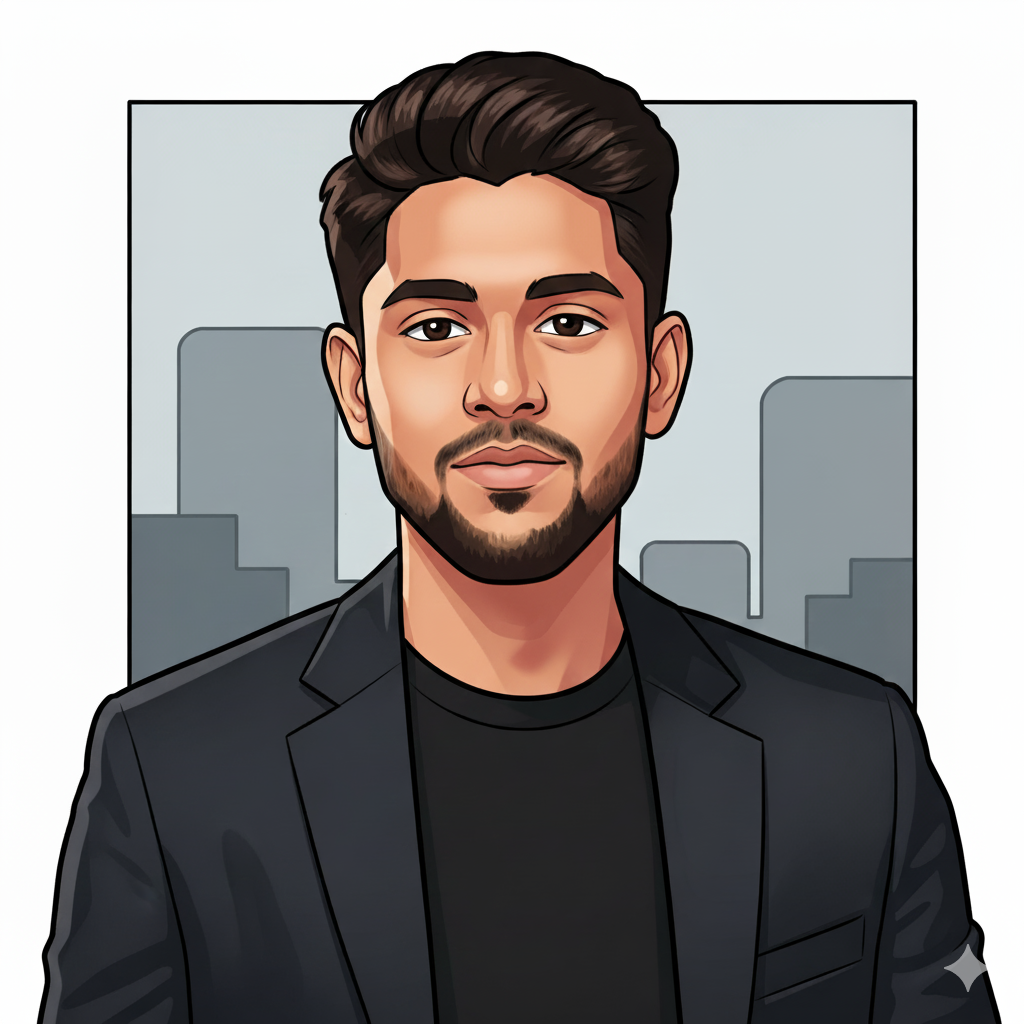
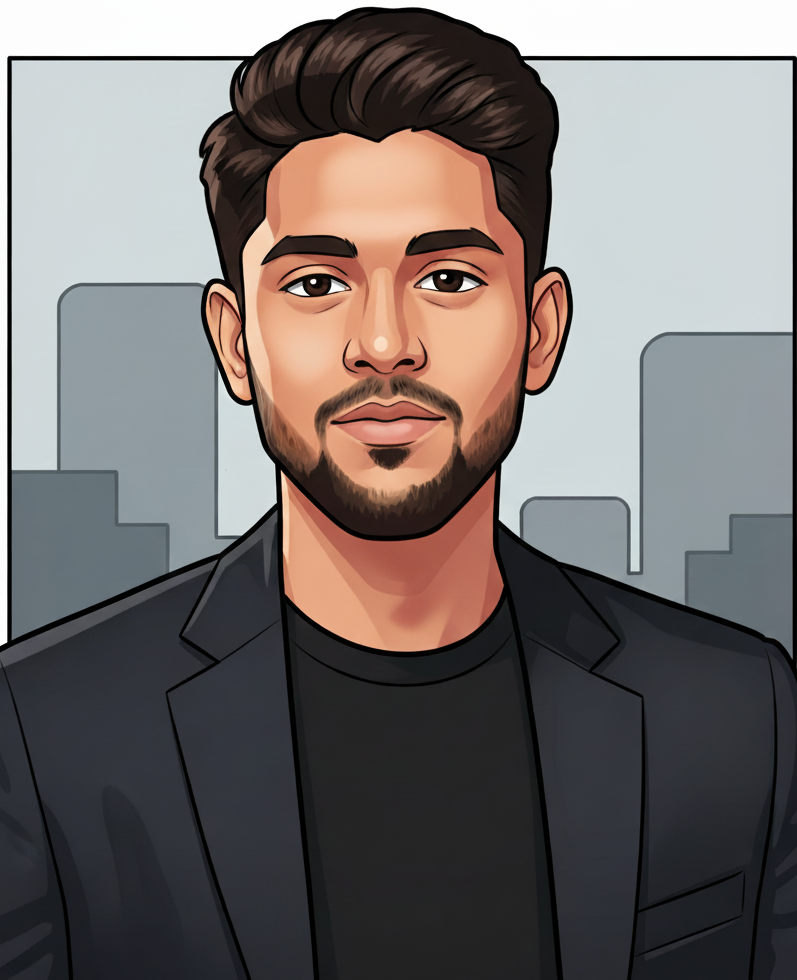
Fix About overflow, portrait arch, hero arc, visuals and content
- About: clip the giant ENGINEER word in an overflow-hidden, column-
  width container so it never causes horizontal overflow; size it to
  fit behind the portrait at every width. Verified scrollWidth == width
  at 360/390/768/1440 via CDP (no overflow).
- Add overflow-x: clip on html and body as a safety net.
- Portrait: crop the baked-in white frame, apply the arch shape
  (999px 999px 32px 32px) over a violet-to-transparent gradient.
- Hero: rebuild the glowing arc as a bright white-violet rim ellipse
  with a violet bloom, rising behind the AgentConsole which overlaps
  its lower edge.
- EchoShield: crop the white frame; render the image fill-cropped on
  the dark glass tile.
- More projects: render a graph ProjectVisual thumbnail when a card has
  no image (CRM Agent), so all cards match.
- Now learning: add detail lines for AMD HIP / ROCm and Modern C++.
- Skills: real logos for SQL (PostgreSQL), FAISS (Meta), QLoRA
  (Hugging Face), plus meaningful icons for XGBoost and ChromaDB.
- Footer: use the LinkedIn brand mark (react-icons/fa6, since
  simple-icons dropped LinkedIn).
- Work H2: wider max-width + text-balance so 'up.' no longer orphans.
- Reduce section padding (72px desktop / 56px mobile) to tighten the
  oversized inter-section gaps.
- content/site.ts: delete the QB1, Voice_Agent and Computer_use
  entries entirely (product.md rule 8); keep Market Signals hidden.

diff --git a/components/sections/Hero.tsx b/components/sections/Hero.tsx
@@ -111,33 +111,48 @@ export function Hero({ hasResume }: { hasResume: boolean }) {
         </motion.div>
 
         {/* glowing arc + console */}
-        <div className="relative mt-16 md:mt-20">
-          {/* arc */}
-          <div aria-hidden="true" className="pointer-events-none absolute inset-x-0 -top-10 flex justify-center">
-            <div className="relative h-[320px] w-[760px] max-w-[94vw]">
+        <div className="relative mt-24 md:mt-32">
+          {/* glowing arc: rises behind the console, which overlaps its lower edge */}
+          <div
+            aria-hidden="true"
+            className="pointer-events-none absolute inset-x-0 bottom-0 top-[-180px] flex items-start justify-center overflow-hidden md:top-[-240px]"
+          >
+            <div className="relative h-[460px] w-[900px] max-w-[150vw]">
+              {/* soft ambient bloom */}
               <div
-                className="absolute inset-0 rounded-[999px] blur-[60px]"
+                className="absolute inset-x-0 top-0 h-[360px] blur-[70px]"
                 style={{
                   background:
-                    "radial-gradient(60% 70% at 50% 100%, rgba(138,114,255,0.35), transparent 70%)",
+                    "radial-gradient(50% 60% at 50% 55%, rgba(138,114,255,0.5), transparent 72%)",
                 }}
               />
+              {/* filled half-ellipse body */}
               <div
-                className="absolute bottom-0 left-1/2 h-[260px] w-[680px] max-w-[92vw] -translate-x-1/2 rounded-t-[999px] border-t border-[rgba(220,210,255,0.4)]"
+                className="absolute left-1/2 top-0 h-[460px] w-[760px] max-w-[128vw] -translate-x-1/2 rounded-[999px]"
                 style={{
                   background:
-                    "conic-gradient(from 180deg at 50% 100%, rgba(220,210,255,0.08), rgba(124,92,255,0.14), rgba(220,210,255,0.08))",
-                  maskImage:
-                    "radial-gradient(60% 100% at 50% 100%, black, transparent 72%)",
-                  WebkitMaskImage:
-                    "radial-gradient(60% 100% at 50% 100%, black, transparent 72%)",
+                    "radial-gradient(50% 50% at 50% 50%, rgba(124,92,255,0.30), rgba(84,34,196,0.10) 60%, transparent 72%)",
+                }}
+              />
+              {/* bright white-violet rim */}
+              <div
+                className="absolute left-1/2 top-0 h-[460px] w-[760px] max-w-[128vw] -translate-x-1/2 rounded-[999px]"
+                style={{
+                  padding: "1.5px",
+                  background:
+                    "conic-gradient(from 180deg at 50% 50%, rgba(220,210,255,0) 0deg, rgba(246,207,255,0.9) 120deg, rgba(188,211,255,0.9) 240deg, rgba(220,210,255,0) 360deg)",
+                  WebkitMask:
+                    "linear-gradient(#000 0 0) content-box, linear-gradient(#000 0 0)",
+                  WebkitMaskComposite: "xor",
+                  maskComposite: "exclude",
+                  filter: "blur(0.3px)",
                 }}
               />
             </div>
           </div>
 
           <motion.div
-            className="relative"
+            className="relative z-10"
             initial={reduce ? undefined : { opacity: 0, y: 30 }}
             animate={reduce ? undefined : { opacity: 1, y: 0 }}
             transition={{ duration: 0.7, ease, delay: 0.5 }}

diff --git a/components/sections/About.tsx b/components/sections/About.tsx
@@ -25,31 +25,37 @@ export function About() {
         >
           {/* left: giant word + arch portrait */}
           <div className="relative flex justify-center">
-            <motion.span
+            {/* giant faded word, clipped so it never causes horizontal overflow */}
+            <div
               aria-hidden="true"
-              style={reduce ? undefined : { y: wordY }}
-              className="giant-word pointer-events-none absolute -top-10 left-1/2 -translate-x-1/2 text-center text-[clamp(96px,18vw,240px)]"
+              className="pointer-events-none absolute inset-x-0 top-0 -z-0 flex justify-center overflow-hidden"
             >
-              {about.bgWord}
-            </motion.span>
+              <motion.span
+                style={reduce ? undefined : { y: wordY }}
+                className="giant-word block whitespace-nowrap text-center text-[clamp(52px,13vw,150px)] leading-none"
+              >
+                {about.bgWord}
+              </motion.span>
+            </div>
 
             <Reveal className="relative z-10 w-full max-w-[360px]">
               <div
                 className="relative overflow-hidden"
                 style={{ borderRadius: "999px 999px 32px 32px" }}
               >
+                {/* violet → transparent gradient behind the photo */}
                 <div
                   className="absolute inset-0 z-0"
                   style={{
                     background:
-                      "linear-gradient(180deg, rgba(124,92,255,0.45), transparent 70%)",
+                      "linear-gradient(180deg, rgba(124,92,255,0.55), rgba(124,92,255,0.15) 45%, transparent 75%)",
                   }}
                 />
                 <Image
                   src={identity.portrait}
                   alt="Portrait of Thayaananthan Kanagaraj"
-                  width={360}
-                  height={460}
+                  width={797}
+                  height={980}
                   className="relative z-10 h-auto w-full object-cover"
                   priority={false}
                 />

diff --git a/content/site.ts b/content/site.ts
@@ -255,33 +255,6 @@ export const moreProjects = {
     },
     // Hidden until Thayaa confirms (visible: false). Built but not rendered.
     {
-      slug: "cross-document-graph-rag",
-      title: "Cross-Document Graph RAG",
-      description:
-        "Knowledge-graph RAG that links the same person across documents and answers with line-level citations; LangChain or UiPath extraction.",
-      chips: ["Graph RAG", "LangChain", "UiPath"],
-      href: "https://github.com/Thayaa21/QB1",
-      visible: false,
-    },
-    {
-      slug: "voice-agent-hospital",
-      title: "Voice Agent: Hospital Appointments",
-      description:
-        "Phone agent that verifies callers and answers from a Graph RAG backend.",
-      chips: ["Voice", "Graph RAG"],
-      href: "https://github.com/Thayaa21/Voice_Agent",
-      visible: false,
-    },
-    {
-      slug: "remote-dev-assistant",
-      title: "Remote Dev Assistant",
-      description:
-        "Call a number, and your laptop wakes up and takes code changes, tests and commits from Slack.",
-      chips: ["Slack", "Automation"],
-      href: "https://github.com/Thayaa21/Computer_use",
-      visible: false,
-    },
-    {
       slug: "market-signals",
       title: "Market Signals",
       description:
@@ -419,8 +392,8 @@ export const nowLearning = {
   intro: "The layer under the models, where my work is heading.",
   cards: [
     { title: "CUDA", detail: "PMPP book + GPU MODE lectures" },
-    { title: "AMD HIP / ROCm", detail: "" },
-    { title: "Modern C++", detail: "" },
+    { title: "AMD HIP / ROCm", detail: "Porting CUDA-style kernels to AMD GPUs" },
+    { title: "Modern C++", detail: "Memory, RAII and performance for systems code" },
     { title: "LLM inference", detail: "KV cache, FlashAttention, batching" },
   ] as LearningCard[],
 };

diff --git a/components/sections/MoreProjects.tsx b/components/sections/MoreProjects.tsx
@@ -2,6 +2,7 @@ import Image from "next/image";
 import { Github } from "lucide-react";
 import { moreProjects, visibleProjects } from "@/content/site";
 import { GlassCard } from "@/components/ui/GlassCard";
+import { ProjectVisual } from "@/components/ui/ProjectVisual";
 import { Reveal, RevealGroup, RevealItem } from "@/components/ui/Reveal";
 
 export function MoreProjects() {
@@ -20,7 +21,7 @@ export function MoreProjects() {
           {projects.map((p) => (
             <RevealItem key={p.slug}>
               <GlassCard as="article" className="flex h-full flex-col overflow-hidden">
-                {p.image && (
+                {p.image ? (
                   <div className="overflow-hidden border-b border-[var(--color-border)]">
                     <Image
                       src={p.image}
@@ -29,6 +30,12 @@ export function MoreProjects() {
                       height={300}
                       className="h-44 w-full object-cover"
                     />
+                  </div>
+                ) : (
+                  <div className="h-44 overflow-hidden border-b border-[var(--color-border)]">
+                    <div className="flex h-full items-center justify-center [&>div]:aspect-auto [&>div]:h-full [&>div]:w-full [&>div]:rounded-none [&>div]:border-0 [&>div]:bg-transparent">
+                      <ProjectVisual mode="graph" />
+                    </div>
                   </div>
                 )}
                 <div className="flex flex-1 flex-col p-5">

diff --git a/components/sections/Work.tsx b/components/sections/Work.tsx
@@ -15,7 +15,7 @@ export function Work() {
           <p className="font-mono text-[12px] uppercase tracking-[0.08em] text-[var(--color-accent-soft)]">
             {work.eyebrow}
           </p>
-          <h2 className="mt-4 max-w-[640px] font-display text-[30px] font-medium tracking-[-0.028em] md:text-[42px]">
+          <h2 className="mt-4 max-w-[760px] text-balance font-display text-[30px] font-medium tracking-[-0.028em] md:text-[42px]">
             {work.h2}
           </h2>
         </Reveal>
@@ -86,13 +86,13 @@ export function Work() {
                     {/* visual */}
                     <div>
                       {p.image ? (
-                        <div className="overflow-hidden rounded-[22px] border border-[var(--color-border)]">
+                        <div className="relative aspect-[4/3] w-full overflow-hidden rounded-[22px] border border-[var(--color-border)] bg-[var(--color-surface)]">
                           <Image
                             src={p.image}
                             alt={`${p.title} preview`}
-                            width={640}
-                            height={480}
-                            className="h-auto w-full object-cover"
+                            fill
+                            sizes="(max-width: 768px) 100vw, 50vw"
+                            className="object-cover"
                           />
                         </div>
                       ) : p.visual ? (

diff --git a/components/sections/Skills.tsx b/components/sections/Skills.tsx
@@ -14,8 +14,10 @@ import {
   SiStreamlit,
   SiGithubactions,
   SiGooglecloud,
+  SiPostgresql,
+  SiMeta,
 } from "react-icons/si";
-import { CircleDot, Cloud } from "lucide-react";
+import { CircleDot, Cloud, Database, TrendingUp } from "lucide-react";
 import type { ComponentType, SVGProps } from "react";
 import { skills } from "@/content/site";
 import { GlassCard } from "@/components/ui/GlassCard";
@@ -27,12 +29,17 @@ type SvgIcon = ComponentType<SVGProps<SVGSVGElement>>;
 const iconMap: Record<string, SvgIcon> = {
   python: SiPython,
   cplusplus: SiCplusplus,
+  sql: SiPostgresql,
   typescript: SiTypescript,
   pytorch: SiPytorch,
   huggingface: SiHuggingface,
   scikitlearn: SiScikitlearn,
+  xgboost: TrendingUp,
   langchain: SiLangchain,
   langgraph: SiLangchain,
+  qlora: SiHuggingface,
+  faiss: SiMeta,
+  chromadb: Database,
   fastapi: SiFastapi,
   docker: SiDocker,
   ray: SiRay,

diff --git a/app/globals.css b/app/globals.css
@@ -54,6 +54,7 @@
 html {
   scroll-behavior: smooth;
   -webkit-text-size-adjust: 100%;
+  overflow-x: clip;
 }
 
 @media (prefers-reduced-motion: reduce) {
@@ -70,7 +71,7 @@ body {
   line-height: 1.6;
   -webkit-font-smoothing: antialiased;
   text-rendering: optimizeLegibility;
-  overflow-x: hidden;
+  overflow-x: clip;
 }
 
 ::selection {
@@ -235,14 +236,16 @@ h4 {
   border: 0;
 }
 
-/* Section helpers */
+/* Section helpers.
+   Adjacent sections each contribute padding, so a gap is twice this value.
+   72px desktop keeps inter-section gaps near ~144px instead of ~240px. */
 .section {
-  padding-block: 80px;
+  padding-block: 56px;
 }
 
 @media (min-width: 768px) {
   .section {
-    padding-block: 120px;
+    padding-block: 72px;
   }
 }
 

diff --git a/components/layout/Footer.tsx b/components/layout/Footer.tsx
@@ -1,4 +1,5 @@
-import { Github, Linkedin, Mail } from "lucide-react";
+import { Github, Mail } from "lucide-react";
+import { FaLinkedin } from "react-icons/fa6";
 import { footer, identity, nav } from "@/content/site";
 
 export function Footer() {
@@ -62,7 +63,7 @@ export function Footer() {
             aria-label="LinkedIn"
             className="flex h-10 w-10 items-center justify-center rounded-[12px] border border-[var(--color-border)] bg-[var(--color-surface)] text-[var(--color-text-2)] transition-colors hover:border-[var(--color-border-strong)] hover:text-[var(--color-text)]"
           >
-            <Linkedin size={18} />
+            <FaLinkedin size={18} />
           </a>
           <a
             href={`mailto:${identity.email}`}
